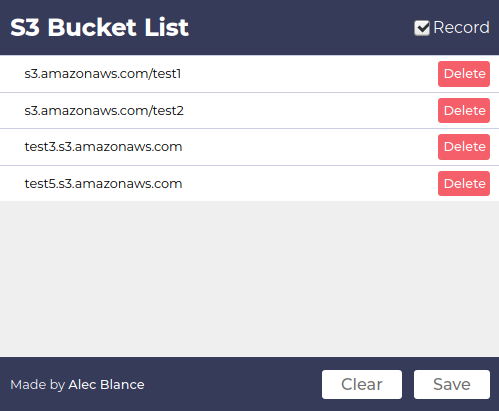
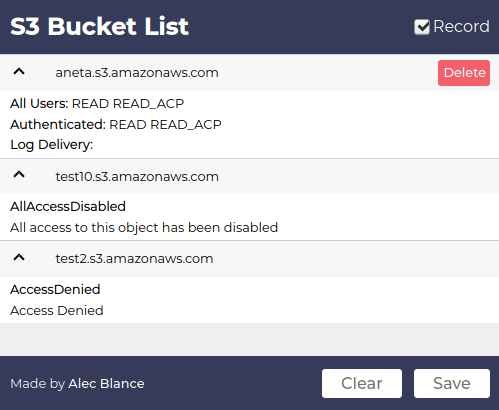
Add bucket permissions check

diff --git a/background.js b/background.js
@@ -1,6 +1,7 @@
 var clicks = 0;
 var anchor = document.createElement('a');
 var bucket = [];
+var bucketPermission = [];
 var record = true;
 var hostname;
 
@@ -20,7 +21,7 @@ function recordHttpResponse(response) {
                     hostname = anchor.hostname;
                     if (hostname == "s3.amazonaws.com"){
                         var path = anchor.pathname.split("/")[1]; 
-                        if (path=="favicon.ico"){
+                        if (hostname.includes("favicon.ico")){
                             hostname = bucket[0];
                         } else {
                             hostname += "/"+path;
@@ -28,6 +29,36 @@ function recordHttpResponse(response) {
                     }
                     if (!bucket.includes(hostname)) {
                         addNumber();
+                        var req = new XMLHttpRequest();
+                        req.open("GET", "https://"+hostname+"/?acl", true);
+                        req.addEventListener("load", function() {
+                            var currentPerm;
+                            var xml = req.responseXML.getElementsByTagName("URI");
+                            if (xml.length == 0){
+                                currentPerm = [[],[]];
+                                xml = req.responseXML.getElementsByTagName("Code");
+                                currentPerm[0].push("<b>"+xml[0].childNodes[0].nodeValue+"</b>");
+                                currentPerm[1].push(xml[0].nextElementSibling.childNodes[0].nodeValue);
+                                bucketPermission.push(currentPerm);
+                            } else {
+                                currentPerm = [["<b>All Users: </b>"],["<b>Authenticated: </b>"],["<b>Log Delivery: </b>"]];
+                                for (var i = 0; i < xml.length; i++){
+                                    var text = xml[i].childNodes[0].nodeValue;
+                                    if (text.includes("AllUsers")){
+                                        currentPerm[0].push(xml[i].parentNode.nextElementSibling.childNodes[0].nodeValue);
+                                    }
+                                    if (text.includes("AuthenticatedUsers")){
+                                        currentPerm[1].push(xml[i].parentNode.nextElementSibling.childNodes[0].nodeValue);
+                                    }
+                                    if (text.includes("LogDelivery")){
+                                        currentPerm[2].push(xml[i].parentNode.nextElementSibling.childNodes[0].nodeValue);
+                                    }
+                                }
+                                bucketPermission.push(currentPerm);
+                            }
+                            
+                        });
+                        req.send();
                         bucket.push(hostname);
                     }
                 }
@@ -76,6 +107,7 @@ browser.runtime.onMessage.addListener(function(request, sender, sendResponse) {
     }
     if (request.action == "clear") {
         bucket = [];
+        bucketPermission = [];
         browser.browserAction.setBadgeText({
             text: null
         });
@@ -93,6 +125,7 @@ browser.runtime.onMessage.addListener(function(request, sender, sendResponse) {
         sendResponse({
             "recordStatus": record,
             "bucketList": bucket,
+            "bucketPermission": bucketPermission,
             "file": blob
         });
     }
@@ -105,6 +138,8 @@ browser.runtime.onMessage.addListener(function(request, sender, sendResponse) {
                 text: null
             });
         }
-        bucket.splice(bucket.indexOf(request.buckets) , 1);
+        var index = bucket.indexOf(request.buckets);
+        bucket.splice( index, 1);
+        bucketPermission.splice(index, 1);
     }
 });

diff --git a/popup/popup.js b/popup/popup.js
@@ -23,31 +23,58 @@ document.getElementById("clear").addEventListener("click", () => {
   			record.checked = false;
   		}
   		const parser = new DOMParser();
-  		response.bucketList.forEach((bucket)=>{
-  			var html = `<div class="bucket"><div class="bucketName"><p>`+bucket
-  			+`</p></div><a href="" class="bucketDelete"><div>Delete</div></a></div>`;
+  		for (var i=0; i<response.bucketList.length; i++){
+  			var html = `<div class="bucket" style="cursor: pointer;"><i class="down"></i><div class="bucketName"><p>`+response.bucketList[i]
+  			+`</p></div><a href="" class="bucketDelete"><div>Delete</div></a></div><div class="bucketContent">`;
+  			for (var a =0; a < response.bucketPermission[i].length; a++){
+  				html += "<p>";
+  				response.bucketPermission[i][a].forEach((each)=>{
+  					html += each+" ";
+  				});
+  				html += "</p>";
+  			}
+  			html += "</div>";
 			var parsed = parser.parseFromString(html, `text/html`);
 			var tags = parsed.getElementsByTagName(`body`);
 			for (var tag of tags) {
 				document.getElementById("content").appendChild(tag); 
 			}
-  		});
+  		}
   		if (response.file != null){
   			save.download = "buckets.txt";
   			save.href = response.file;
   		} else {
   			save.removeAttribute("download"); 
   		}
+  		var bucket = document.getElementsByClassName("bucket");
   		var bucketDelete = document.getElementsByClassName("bucketDelete");
 		var bucketName = document.getElementsByClassName("bucketName");
 		for (var i = 0; i < bucketDelete.length; i++) {
-			bucketDelete[i].addEventListener('click', (target) => {
+			bucketDelete[i].addEventListener('click', function() {
 				var sending = browser.runtime.sendMessage({
 			    	"action" : "delete",
-			    	"buckets": target.currentTarget.bucket.textContent
+			    	"buckets": this.bucket.textContent
 			  	});
-			}, false);
+			});
 			bucketDelete[i].bucket = bucketName[i];
+			bucket[i].onmouseover = function () {
+				bucketDelete[this.num].style.visibility = "visible";
+			}
+			bucket[i].onmouseout = function () {
+				bucketDelete[this.num].style.visibility = "hidden";
+			}
+			bucket[i].num = i;
+			bucket[i].addEventListener('click', function() {
+				var content = this.nextElementSibling;
+				this.classList.toggle("active");
+			 	if (content.style.maxHeight){
+			      	content.style.maxHeight = null;
+			      	this.childNodes[0].className = "down";
+			    } else {
+			    	this.childNodes[0].className = "up";
+			      	content.style.maxHeight = content.scrollHeight + "px";
+			    } 
+			});
 		}
   	}); 
 })();

diff --git a/popup/css/style.css b/popup/css/style.css
@@ -44,6 +44,9 @@ h2 {
 	background-color:white;
 	border-top:1px solid #cccfe3;
 }
+.active, .bucket:hover {
+	background-color:#f7f7f7;
+}
 .bucketName {
 	width:350px;
 }
@@ -52,6 +55,7 @@ h2 {
 	font-family: Medium;
 	border-radius: 3px;
 	display:flex;
+	visibility: hidden;
 	font-size:0.8em;
 	align-items: center;
 	background-color:#f55f6a;
@@ -84,14 +88,15 @@ label {
 
 }
 i {
-  border: solid black;
-  border-width: 0 2px 2px 0;
-  display: inline-block;
-  padding: 3px;
+  	border: solid black;
+  	border-width: 0 2px 2px 0;
+  	display: inline-block;
+  	padding: 3px;
 }
 .down {
-  transform: rotate(45deg);
-  -webkit-transform: rotate(45deg);
+	transition: 0.2s;
+  	transform: rotate(45deg);
+  	-webkit-transform: rotate(45deg);
 }
 .end {
 	padding:1% 2%;
@@ -122,4 +127,19 @@ i {
 	scrollbar-width: thin;
 	overflow-x: hidden;
 	overflow-y: auto;
+}
+.bucketContent {
+	background-color:white;
+	max-height: 0;
+	padding:0 2%;
+	transition: max-height 0.2s ease-out;
+	overflow: hidden;
+}
+.up {
+	transition: 0.2s;
+  	transform: rotate(-135deg);
+  	-webkit-transform: rotate(-135deg);
+}
+.bucketContent p {
+	margin:1% 0;
 }

diff --git a/popup/index.html b/popup/index.html
@@ -8,11 +8,10 @@
 	<body>
 		<div id="header">
 			<h2>S3 Bucket List</h2>
-				<label>
-					<input type="checkbox" id="record" checked>
-					Record
-				</label>
-			</div>
+			<label>
+				<input type="checkbox" id="record" checked>
+				Record
+			</label>
 		</div>
 		<div id="content">
 		</div>

diff --git a/README.md b/README.md
@@ -9,7 +9,7 @@ S3BucketList is a Firefox plugin that records S3 Buckets found in requests. It i
  - ~~Remove bucket button~~
  - ~~Start and stop bucket search~~
  - Additional S3 Bucket Checks
- - Misconfiguration and Permission check
+ - ~Misconfiguration and Permission check~
 
 **Optional Feature**
 
